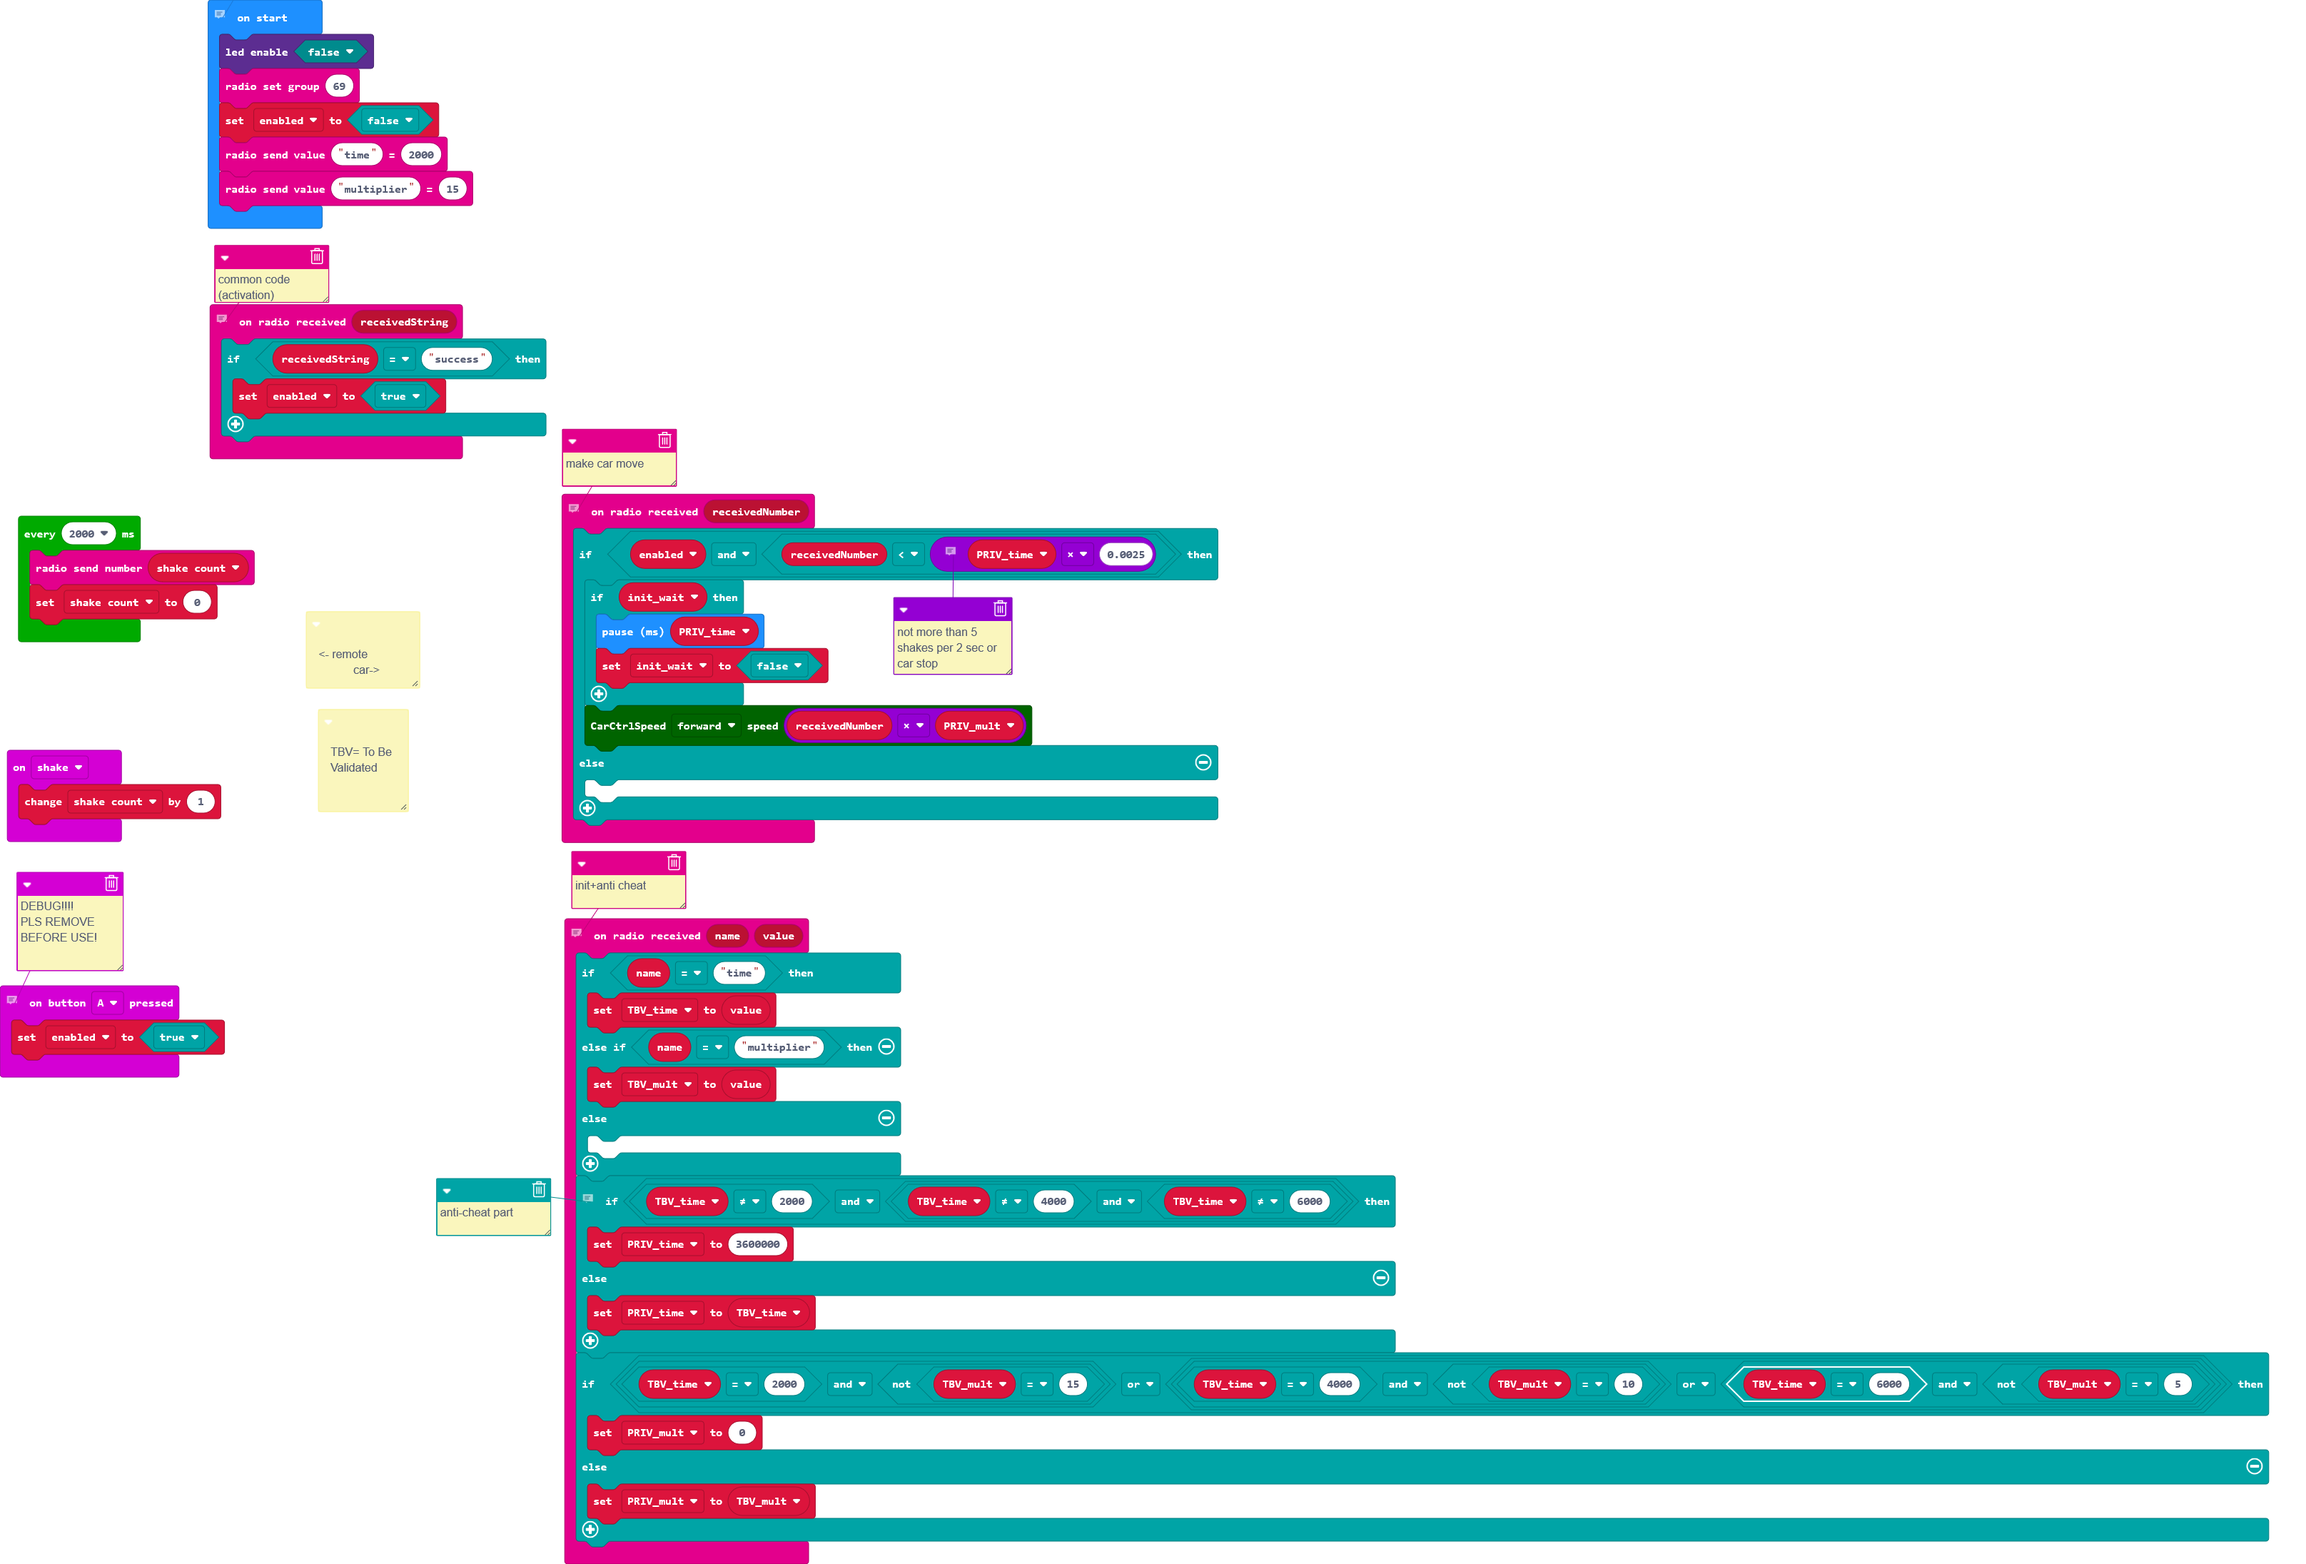
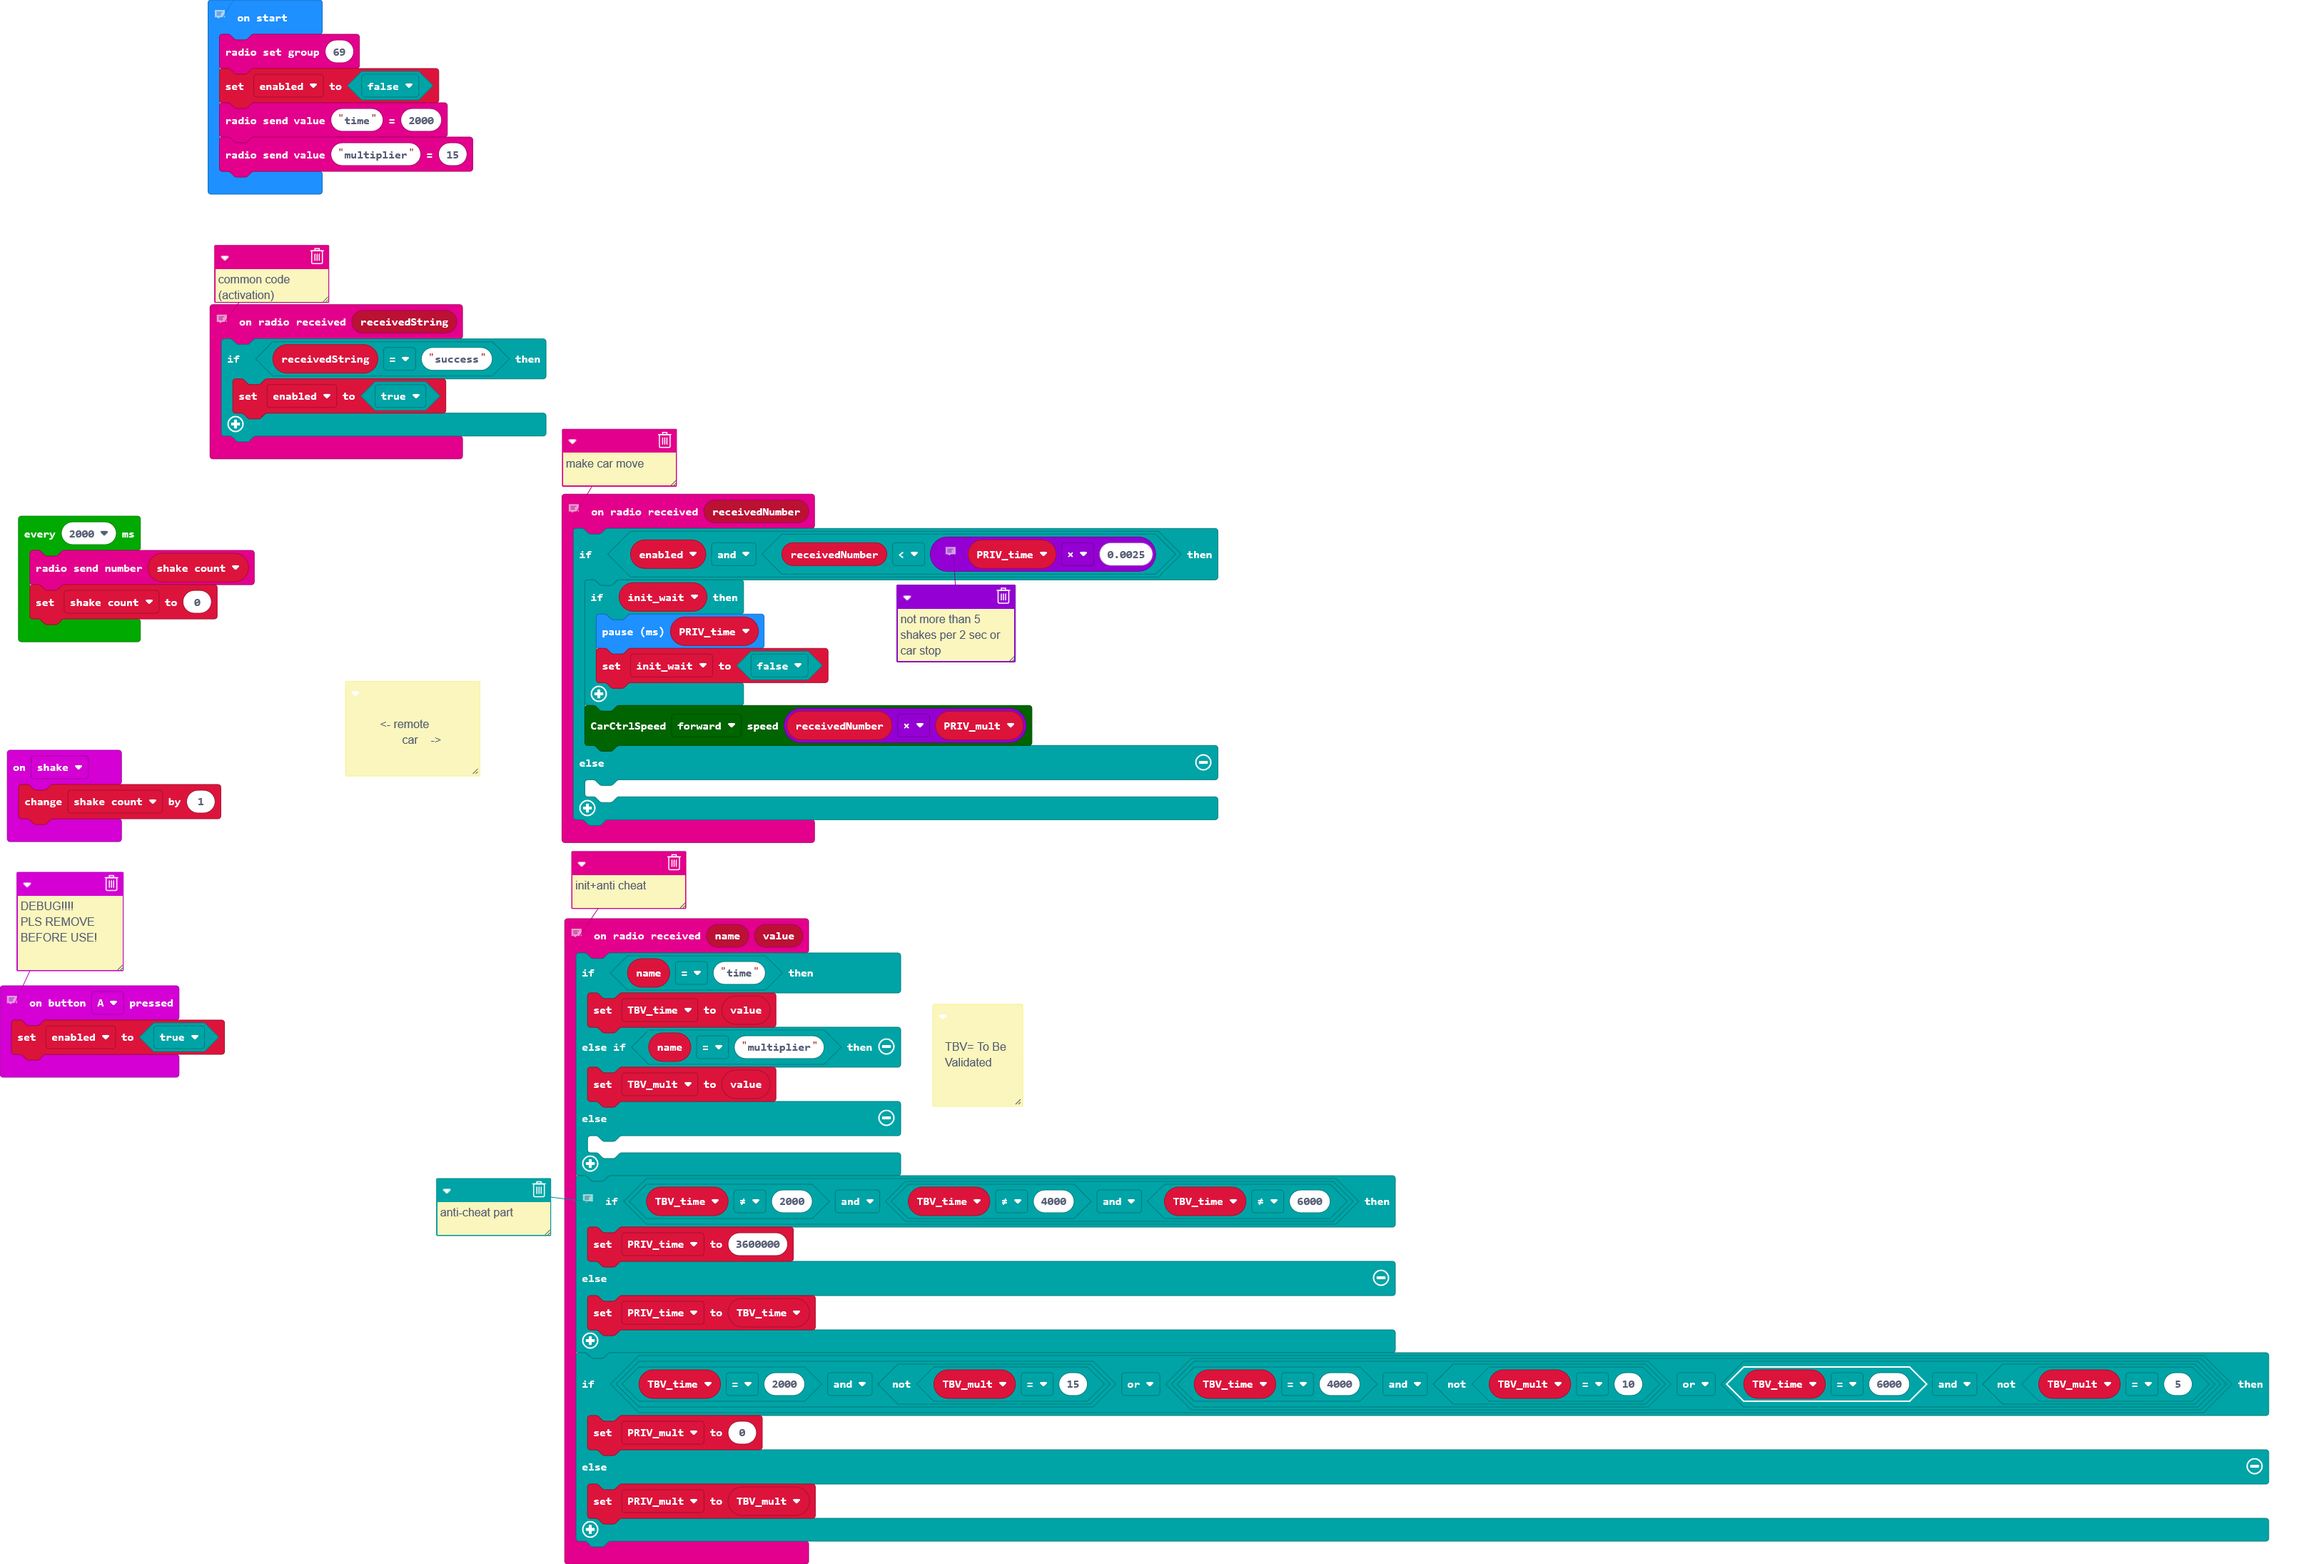
Update main.blocks, main.ts

diff --git a/main.ts b/main.ts
@@ -1,10 +1,7 @@
 /**
  * <- remote
  * 
- *            car->
- */
-/**
- * TBV= To Be Validated
+ *               car    ->
  */
 // make car move
 radio.onReceivedNumber(function (receivedNumber) {
@@ -33,6 +30,9 @@ radio.onReceivedString(function (receivedString) {
 input.onGesture(Gesture.Shake, function () {
     shake_count += 1
 })
+/**
+ * TBV= To Be Validated
+ */
 // init+anti cheat
 radio.onReceivedValue(function (name, value) {
     if (name == "time") {
@@ -63,7 +63,6 @@ let PRIV_mult = 0
 let init_wait = false
 let PRIV_time = 0
 let enabled = false
-led.enable(false)
 radio.setGroup(69)
 enabled = false
 radio.sendValue("time", 2000)
